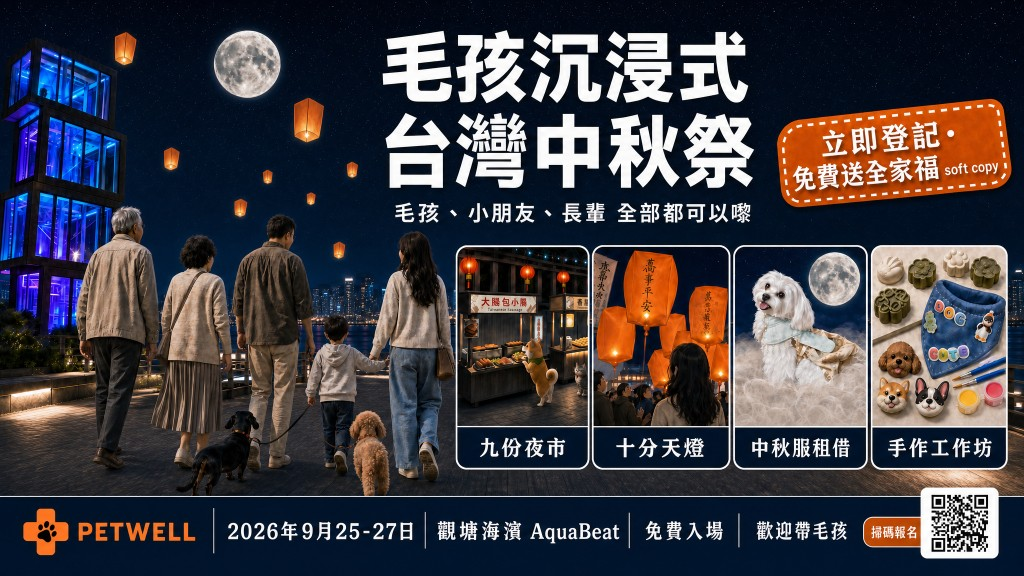
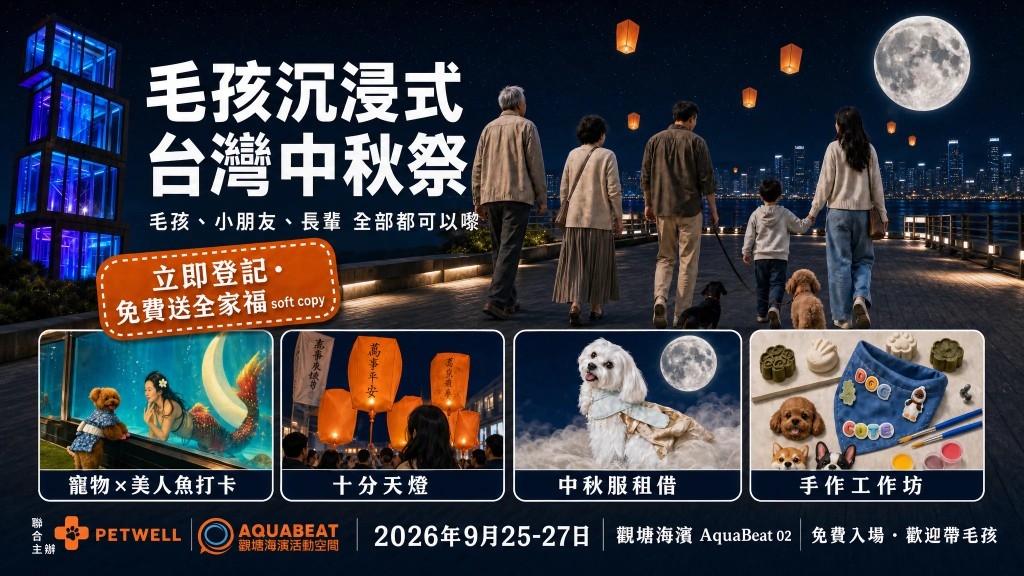
Update Mid-Autumn Festival assets: replace poster images with new versions and update version query parameters for consistency across components, including HomeSectorShowcase, BlogPost, and PetActivities.

diff --git a/src/data/blogPostsMidAutumn.ts b/src/data/blogPostsMidAutumn.ts
@@ -6,8 +6,8 @@ const dressModel = "/assets/blog-mid-autumn-pet-hk/dress-model.jpg";
 const dressProduct = "/assets/blog-mid-autumn-pet-hk/dress-product.jpg";
 const mermaid = "/assets/blog-mid-autumn-pet-hk/mermaid.jpg";
 const moonViewing = "/assets/blog-mid-autumn-pet-hk/moon-viewing.jpg";
-const posterFamily = "/assets/blog-mid-autumn-pet-hk/poster-family.jpg?v=16x9";
-const posterGuide = "/assets/blog-mid-autumn-pet-hk/poster-guide.jpg?v=16x9";
+const posterFamily = "/assets/blog-mid-autumn-pet-hk/poster-family.jpg?v=20260901";
+const posterGuide = "/assets/blog-mid-autumn-pet-hk/poster-guide.jpg?v=20260901";
 
 const DRESS_URL =
   "https://www.dlpawradise.com/zh/products/modern-chinese-style-pearl-tassel-dress?variant=64378930200945";
@@ -93,17 +93,6 @@ export const blogPostsMidAutumn: BlogPost[] = [
     content: `
       <p style="font-size: 13px; color: #666; margin-bottom: 20px; letter-spacing: 0.4px;">最後更新：2026 年 8 月 31 日　｜　2026 中秋：9 月 25 日（星期五）</p>
 
-      <nav style="background:#FFF7ED;border:1px solid #FED7AA;border-radius:14px;padding:20px 22px;margin-bottom:32px;">
-        <p style="font-size:12px;letter-spacing:1px;color:#9A3412;margin:0 0 12px;font-weight:700;">本文目錄</p>
-      <div style="display:grid;gap:8px;font-size:15px;">
-          <a href="#one-stop" style="color:#C2410C;text-decoration:none;">1. 觀塘海濱：賞月熱點今年再加一條龍</a>
-          <a href="#experiences" style="color:#C2410C;text-decoration:none;">2. 一條龍行程：一次完成的五件事</a>
-          <a href="#sixty-seconds" style="color:#C2410C;text-decoration:none;">3. 出發前重點</a>
-          <a href="#practical" style="color:#C2410C;text-decoration:none;">4. 日期、時間、地圖與交通</a>
-          <a href="#rsvp" style="color:#C2410C;text-decoration:none;">5. 報名／即場參加</a>
-        </div>
-      </nav>
-
       <p style="font-size:18px;line-height:1.8;margin-bottom:28px;font-weight:300;">每年中秋前後，搜尋欄總會出現同一句：<strong>「中秋可以帶狗狗去哪裡？」</strong>商場有花燈、海濱有草地、公園有月亮——但大多數行程都要分開幾天、輾轉幾個場地。今年有另一個答案：如果你想賞月、製作寵物月餅、打卡、沉浸於台式夜市，<strong>到觀塘海濱一次便可完成。</strong>今年中秋，帶毛孩在海風與月光之下，留下一晚屬於你們的回憶。</p>
 
       <h2 id="one-stop" style="font-size:26px;font-weight:700;margin:40px 0 18px;padding-bottom:10px;border-bottom:2px solid #FF6B35;scroll-margin-top:88px;">觀塘海濱：傳統賞月熱點，今年再加一條龍體驗</h2>
@@ -112,7 +101,7 @@ export const blogPostsMidAutumn: BlogPost[] = [
       <p style="font-size:17px;line-height:1.85;margin-bottom:20px;">2026 年 9 月 25–27 日，同一條海濱將加設 PetWell × AquaBeat「毛孩沉浸式台灣中秋祭」：九份夜市、十分天燈、養生花膠月餅、美人魚表演，以及中秋服租借。換句話說，<strong>只要走到海濱，便已同時賞月、過節、打卡。</strong></p>
 
       <figure style="margin:0 0 32px;">
-        <img src="${posterGuide}" alt="毛孩沉浸式台灣中秋祭活動一覽：九份夜市、十分天燈、中秋服租借、攝影服務、寵物月餅、DIY 圍巾、磁石貼同市集" style="width:100%;border-radius:12px;" loading="lazy" />
+        <img src="${posterGuide}" alt="毛孩沉浸式台灣中秋祭活動一覽：九份夜市、十分天燈、中秋服租借、攝影服務、寵物月餅、DIY 圍巾、磁石貼同美人魚表演" style="width:100%;border-radius:12px;" loading="lazy" />
         <figcaption style="font-size:13px;color:#6B7280;margin-top:8px;">一個海濱・四個台灣景：九份夜市、十分天燈、中秋服租借、手作工作坊，全家一齊過中秋。</figcaption>
       </figure>
 

diff --git a/src/views/BlogPost.tsx b/src/views/BlogPost.tsx
@@ -140,7 +140,7 @@ const BlogPost = () => {
               <Card className="mb-8 overflow-hidden rounded-xl">
                 <div className="relative bg-neutral-950">
                   <img
-                    src="/assets/blog-mid-autumn-pet-hk/poster-family.jpg?v=16x9"
+                    src="/assets/blog-mid-autumn-pet-hk/poster-family.jpg?v=20260901"
                     alt="毛孩沉浸式台灣中秋祭海報｜觀塘海濱 AquaBeat 2026年9月25–27日"
                     className="mx-auto block h-auto w-full"
                   />

diff --git a/src/components/home/HomeSectorShowcase.tsx b/src/components/home/HomeSectorShowcase.tsx
@@ -215,7 +215,7 @@ const HomeSectorShowcase = ({
     i18n.language,
     initialHome?.lodgings,
   );
-  const midAutumnCover = "/assets/blog-mid-autumn-pet-hk/poster-family.jpg?v=16x9";
+  const midAutumnCover = "/assets/blog-mid-autumn-pet-hk/poster-family.jpg?v=20260901";
   const featuredCard: EventListCardData = {
     id: MID_AUTUMN_FEATURED_ACTIVITY.id,
     name: MID_AUTUMN_FEATURED_ACTIVITY.name,

diff --git a/src/views/PetActivities.tsx b/src/views/PetActivities.tsx
@@ -128,7 +128,7 @@ function mapOrganizedEventsToDisplay(items: OrganizedEvent[]): EventDisplay[] {
   });
 }
 
-const MID_AUTUMN_COVER = "/assets/blog-mid-autumn-pet-hk/poster-family.jpg?v=16x9";
+const MID_AUTUMN_COVER = "/assets/blog-mid-autumn-pet-hk/poster-family.jpg?v=20260901";
 
 function featuredFallback(): EventDisplay {
   return {
